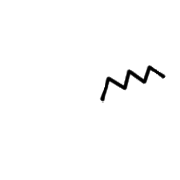
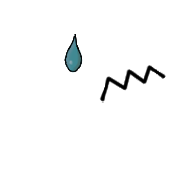
Fear expressions update

Changed region(s): [[0.3611, 0.1944, 0.4722, 0.4167]]

diff --git a/Assets/_project/Scripts/Robin/UiManager.cs b/Assets/_project/Scripts/Robin/UiManager.cs
@@ -19,7 +19,7 @@ public class UiManager : MonoBehaviour
     public int BestSessionScore { get; set; } = 0;
     public int SessionStrikesTotal { get; set; } = 0; // total ammount of eggshells strike during session
     public List<SkinData> allSkins;
-    public bool isSkinPreviewsSet = false;
+    [HideInInspector] public bool isSkinPreviewsSet = false;
 
     // Start is called before the first frame update
     private void Awake()

diff --git a/Assets/_project/Scripts/Leo/Unfolder.cs b/Assets/_project/Scripts/Leo/Unfolder.cs
@@ -36,7 +36,7 @@ public class Unfolder : MonoBehaviour
 
     [Header("Skin Preview")]
     public Image skinBGImage;
-    public Image skinHead, skinMouth, skinEyes, skinPupils;
+    public Image skinHead, skinMouth, skinEyes;
 
     public void SetProgression()
     {
